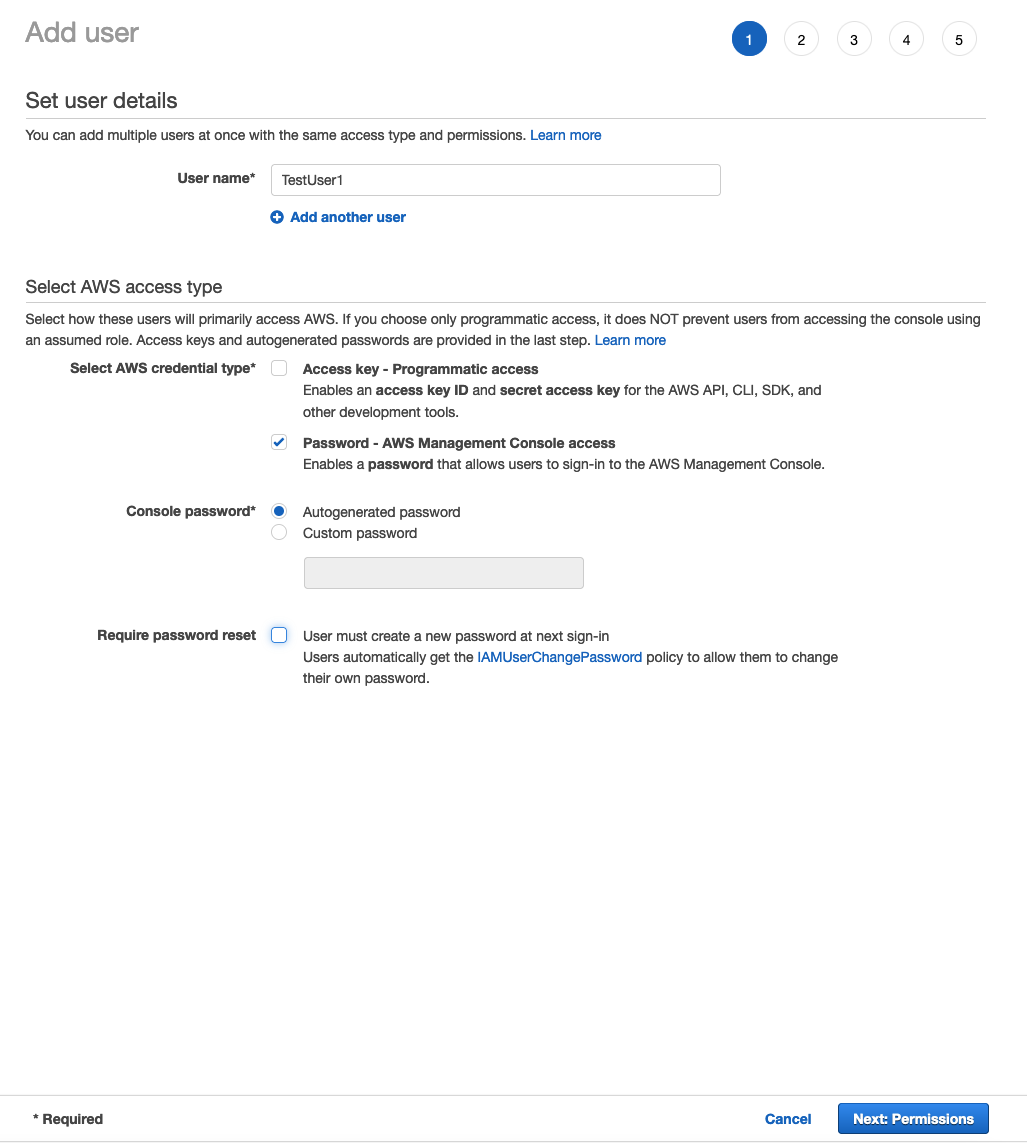
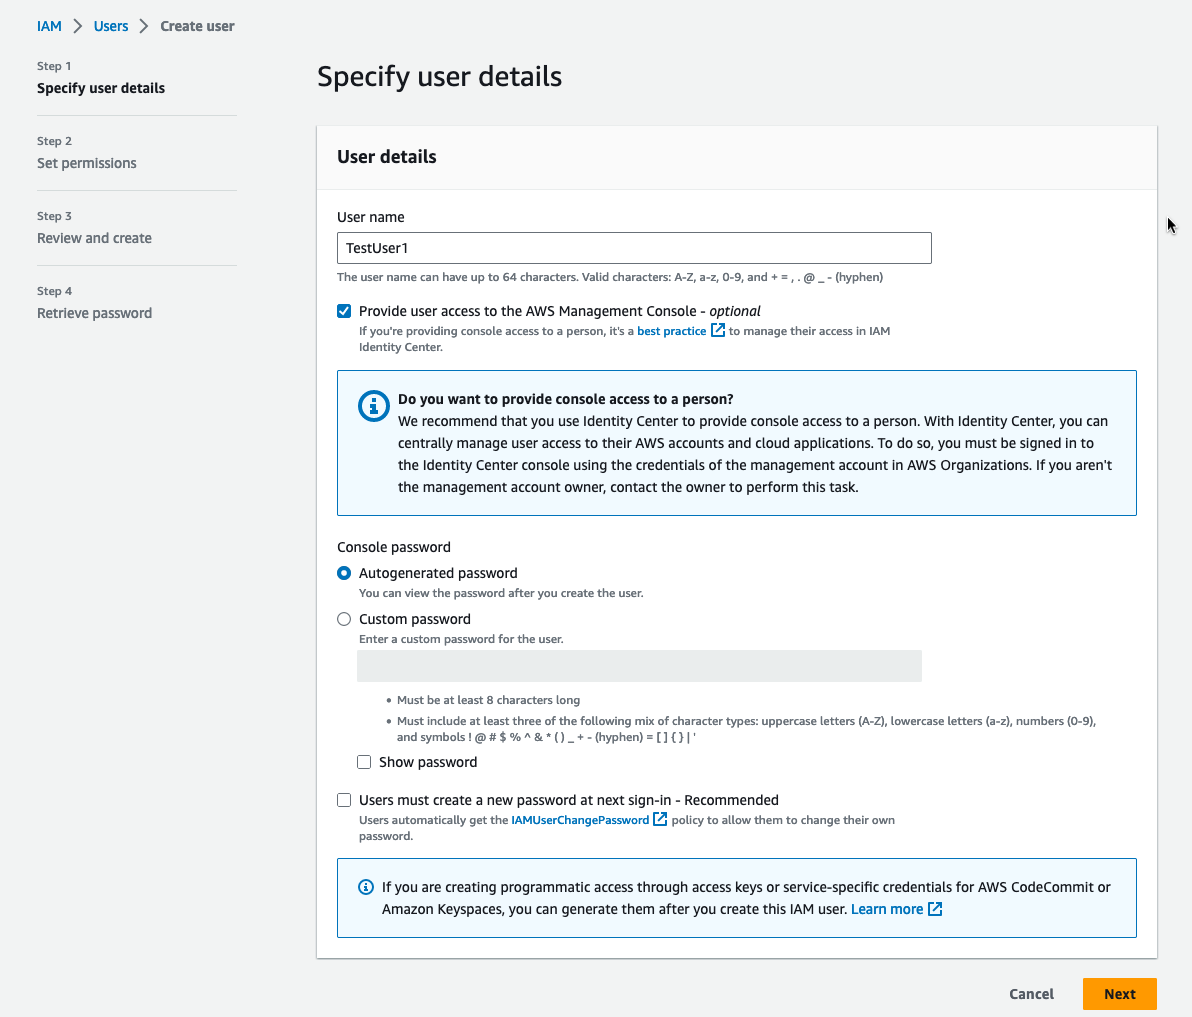
Update policy

diff --git a/README.md b/README.md
@@ -34,10 +34,10 @@ This lab requires you to develop a restrictive IAM policy, then apply the polici
 
 8. Configure the user as follows:
     - **Username**: TestUser1
-    - **Access type**: Password - AWS Management Console access
+    - Tick **Provide useraccess to the AWS management Console - optional**
     - **Console password**: Autogenerated password
-    - Un-select **Require password reset**
-    - Click **Next: Permissions**
+    - Un-select **Users must create a new password at next sign-in**
+    - Click **Next**
     ![Images/AWSCreateTest8.png](/Images/AWSCreateTest8.png)
 
 9. Select the **CostTest** group, and click **Next: Tags**:
@@ -71,7 +71,7 @@ NOTE: it is best practice to provide only the minimum access required, the polic
 
 5. Copy and paste the policy into the console:
 ```
-    {
+{
         "Version": "2012-10-17",
         "Statement": [
             {
@@ -85,7 +85,7 @@ NOTE: it is best practice to provide only the minimum access required, the polic
         "Condition": {"StringEquals": {"aws:RequestedRegion": "us-east-1"}}
             }
         ]
-    }
+}
 ```
 
 ![Images/AWSPolicy5.png](/Images/AWSPolicy5.png)
